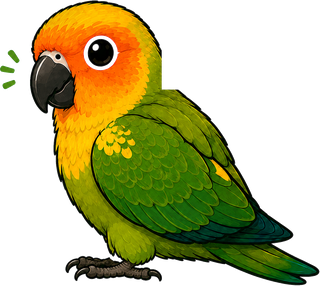
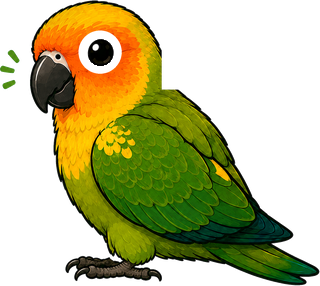
add: 遊び券のクラウド引き継ぎ／おとんテトリス2を遊び券1まいに
gameTicketsをBACKUP_KEYSに追加し、セーブ・復元で遊び券も引き継げるように。
おとんテトリス2の値段を3まい→1まいに統一（コストは親から動的に子へ渡す方式に）。
ジェイドの目の白目が背景色で暗く見えていた不具合を修正（新しい白い虹彩を合成）。
使い方ガイドにおとんテトリス2の記載漏れを追加。管理ツールは本体と全項目を
機械比較し、既に同期済みであることを確認。

Changed region(s): [[0.2188, 0.0839, 0.4062, 0.2797]]

diff --git a/js/tetris2-embed.js b/js/tetris2-embed.js
@@ -2,11 +2,12 @@
 // おとんテトリス2 の橋渡し
 //   本体は lab/tetris2/ にあり、iframe で隔離して読み込む。
 //   （自作WebGL2レンダラ側のグローバル名やCSSが本体とぶつからないように）
-//   ・1プレイごとに遊び券を3まい消費する（リトライも1プレイ）
+//   ・1プレイごとに遊び券を1まい消費する（リトライも1プレイ）
+//   ・2026-08-20: 3まい→1まいに変更（本人指示）。他の息抜きゲームと同じ枚数にそろえた
 //   ・ゲームオーバーのスコアは saveGameScore('tetris2', …) へ
 // ============================================================
 
-const TETRIS2_COST = 3;                     // 1プレイに必要な遊び券
+const TETRIS2_COST = 1;                     // 1プレイに必要な遊び券
 const TETRIS2_SRC = 'lab/tetris2/index.html?embed=1';
 
 function initTetris2() {
@@ -31,10 +32,10 @@ window.addEventListener('message', e => {
   if (d.type === 't2-ready') {
     // ニックネームを渡してランキングの名前をそろえる
     const nick = (typeof state === 'object' && state && state.nickname) ? state.nickname : '';
-    f.contentWindow.postMessage({ type: 't2-name', name: nick }, '*');
+    f.contentWindow.postMessage({ type: 't2-name', name: nick, cost: TETRIS2_COST }, '*');
 
   } else if (d.type === 't2-start-request') {
-    // プレイ開始のたびに遊び券を3まい
+    // プレイ開始のたびに遊び券を1まい
     if (spendGameTickets(TETRIS2_COST)) {
       f.contentWindow.postMessage({ type: 't2-start-ok' }, '*');
     } else {

diff --git a/index.html b/index.html
@@ -132,7 +132,7 @@
       <span class="game-icon">🧊</span>
       <span class="game-text">
         <span class="subject-name">おとんテトリス2 <span class="t2-new">3D</span></span>
-        <span class="subject-detail">フル3Dのハデなやつ！1プレイ 遊び券3まい</span>
+        <span class="subject-detail">フル3Dのハデなやつ！遊び券1まい</span>
       </span>
       <span class="game-arrow">›</span>
     </button>
@@ -499,6 +499,7 @@
         <ul class="help-list">
           <li><b>🦜 ジェイドパニック</b>　ジェイドで データのバグを撃ちまくる（横向きで遊ぶで）</li>
           <li><b>🎮 オトンテトリス</b>　ブロックを積んで消す定番</li>
+          <li><b>🧊 おとんテトリス2</b>　フル3Dのハデなやつ。同じテトリスでも見た目と演出が別物</li>
           <li><b>🪳 おかんスイーパー</b>　ゴキブリをよけて ぜんぶ開ける</li>
           <li><b>🐣 チッチジャンプ2</b>　月をこえて火星まで！どこまで高く跳べるか</li>
         </ul>

diff --git a/lab/tetris2/js/game.js b/lab/tetris2/js/game.js
@@ -89,10 +89,17 @@ window.addEventListener('message', e => {
     const t = document.getElementById('cost-note');
     if (t) { t.textContent = d.msg || '遊び券がたりないで'; t.classList.remove('hidden'); }
     Snd.sfx('over');
-  } else if (d.type === 't2-name' && d.name) {
-    localStorage.setItem('tetris2Name', String(d.name).slice(0, 8));
-    const i = document.getElementById('name-input');
-    if (i) i.value = String(d.name).slice(0, 8);
+  } else if (d.type === 't2-name') {
+    if (d.name) {
+      localStorage.setItem('tetris2Name', String(d.name).slice(0, 8));
+      const i = document.getElementById('name-input');
+      if (i) i.value = String(d.name).slice(0, 8);
+    }
+    // 遊び券の枚数は 親から教えてもらう（子に固定で書くと二重管理になる）
+    if (d.cost) {
+      const t = document.getElementById('cost-note');
+      if (t) t.textContent = `遊び券を${d.cost}まい つかいます`;
+    }
   }
 });
 

diff --git a/lab/tetris2/index.html b/lab/tetris2/index.html
@@ -92,7 +92,7 @@
       <button class="diff" data-diff="hard">むずかしい</button>
     </div>
     <button id="btn-start" class="neon-btn">▶ ゲームスタート</button>
-    <p id="cost-note" class="cost-note hidden">遊び券を3まいつかいます</p>
+    <p id="cost-note" class="cost-note hidden">遊び券を つかいます</p>
     <div class="title-toggles">
       <button id="btn-calm2" class="tgl on">✨ 演出ハデめ</button>
       <button id="btn-track2" class="tgl">♪ BGM：オトン</button>

diff --git a/js/gamify.js b/js/gamify.js
@@ -328,7 +328,7 @@ function hasGameTicket() {
 // 1プレイ開始ごとに1枚消費する（リスタート・難易度変更での再スタートも1プレイ）
 function spendGameTicket() { return spendGameTickets(1); }
 
-// n枚まとめて消費する（おとんテトリス2は1プレイ3枚）
+// n枚まとめて消費する（息抜きゲームは基本 1プレイ1枚。2026-08-20にテトリス2も3→1にそろえた）
 function spendGameTickets(n) {
   const have = getGameTickets();
   if (have < n) {

diff --git a/app.js b/app.js
@@ -1712,6 +1712,7 @@ const BACKUP_KEYS = [
   'mapquizBest', 'timelineBest',
   'drillBest',   // 計算ドリルの自己ベスト（組み合わせごとのJSON・2026-07-28）
   'progress',
+  'gameTickets', // 息抜きゲームの遊び券（2026-08-20・端末を変えても引き継げるように）
 ];
 
 async function backupLocalData() {

diff --git a/sw.js b/sw.js
@@ -1,6 +1,6 @@
 // Service Worker — オフライン対応
 
-const CACHE_NAME = 'oton-gakuen-v583';
+const CACHE_NAME = 'oton-gakuen-v584';
 
 // GitHub Pagesの /tuna-app/ 配下でも動くよう相対パスで指定
 const ASSETS = [

diff --git a/lab/tetris2/README.md b/lab/tetris2/README.md
@@ -96,7 +96,7 @@ python -m http.server 8899
 | 子→親 | `t2-score` | ゲームオーバーのスコア → `saveGameScore('tetris2', …)` |
 | 子→親 | `t2-exit` | 「‹ もどる」→ 親が iframe を `about:blank` にして息抜きメニューへ |
 
-- **1プレイ＝遊び券3まい。** 入口では消費せず、実際に始めるたびに引く（リトライも3まい）。
+- **1プレイ＝遊び券1まい**（2026-08-20・3まい→1まいに変更。他の息抜きゲームと同じ枚数にそろえた）。入口では消費せず、実際に始めるたびに引く（リトライも1まい）。
 - 券が3枚未満のときはカードを押しても入れない（トーストでお知らせ）。
 - 戻るときに iframe を空にするので、音もrAFも確実に止まる。
 
